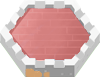
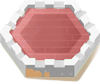
fix hud and set new tower sprites

diff --git a/src/scripts/scenes/Hud.ts b/src/scripts/scenes/Hud.ts
@@ -4,6 +4,7 @@ import { colors } from "../gameConfig"
 import langs from "../langs"
 import Game from "./Game"
 
+const DISPLAY_PERCENT = 5;
 export default class Hud extends Phaser.Scene {
   constructor() {
     super('Hud')
@@ -40,9 +41,8 @@ export default class Hud extends Phaser.Scene {
   private enemyHexCounter: Phaser.GameObjects.Text // счетчик захваченных гексов противника
   private worldStatusAni: Phaser.Tweens.Tween
   public timer: Timer
+  private maskGraphics: Phaser.GameObjects.Graphics;
 
-  private roundLeft: Phaser.GameObjects.Sprite
-  private roundRight: Phaser.GameObjects.Sprite
   private hexBar: Phaser.GameObjects.Sprite
   private hexBarText: Phaser.GameObjects.Text
   private tilesBarText: Phaser.GameObjects.Text
@@ -102,7 +102,7 @@ export default class Hud extends Phaser.Scene {
     // debug // !
     // if (!this.state.game.AI) this.createColorSwitcher()
     // this.createHexBarPlayer2()
-    this.debugText = this.add.text(-26, this.camera.height, '', { font: '10px Molot', align: 'left', color: '#54C649' }).setStroke('#000', 2).setLineSpacing(-9).setOrigin(0, 1).setVisible(false)
+    this.debugText = this.add.text(-26, this.camera.height, '', { font: '20px Molot', align: 'left', color: '#54C649' }).setStroke('#000', 2).setLineSpacing(-9).setOrigin(0, 1).setVisible(false)
     this.input.keyboard.addKey('A').on('up', (): void => { this.debugText.setVisible(!this.debugText.visible) })
   }
 
@@ -145,27 +145,25 @@ export default class Hud extends Phaser.Scene {
       stroke: '#707070',
       strokeThickness: 3,
     };
+    const currentHeight = document.body.clientHeight / 100 * DISPLAY_PERCENT;
+
     this.playerName = this.add.text(this.camera.width / 2 - 10, 4, this.gameScene[this.playerColor].name, textStyle).setOrigin(1, 0)
     this.enemyName = this.add.text(this.camera.width / 2 + 10, 4, this.gameScene[this.enemyColor].name, textStyle)
     this.lineWidth = this.camera.width / 2.5
     const barY = this.playerName.getBottomCenter().y + 29;
-    this.worldStatusBar = this.add.tileSprite(this.camera.width / 2, barY, this.lineWidth, 50, 'pixel').setOrigin(0.5).setVisible(false);
+    this.worldStatusBar = this.add.tileSprite(this.camera.width / 2, barY, this.lineWidth, currentHeight, 'pixel').setOrigin(0.5).setVisible(false);
 
     const barGeom = this.worldStatusBar.getBounds();
 
-    const scale = 42 / 50;
-    this.roundLeft = this.add.sprite(barGeom.left, barGeom.centerY, 'round-bar').setOrigin(0, 0.5).setScale(scale).setVisible(false);
-    this.roundRight = this.add.sprite(barGeom.right, barGeom.centerY, 'round-bar').setFlipX(true).setOrigin(1, 0.5).setScale(scale).setVisible(false);
-    const leftMask = new Phaser.Display.Masks.BitmapMask(this, this.roundLeft);
-    const rightMask = new Phaser.Display.Masks.BitmapMask(this, this.roundRight);
-
-    this.playerStatusRightRound = this.add.sprite(0, 0, `round-${this.playerColor}`).setOrigin(0, 0.5).setVisible(false);
-    this.enemyStatusLeftRound = this.add.sprite(0, 0, `round-${this.enemyColor}`).setFlipX(true).setOrigin(1, 0.5).setVisible(false);
+    this.maskGraphics = this.add.graphics({ x: barGeom.centerX, y: barGeom.centerY })
+      .fillStyle(0x00ff00)
+      .fillRoundedRect(- barGeom.width / 2, -barGeom.height / 2, barGeom.width, barGeom.height, barGeom.height / 2)
+      .setVisible(false);
+    const mask = new Phaser.Display.Masks.GeometryMask(this, this.maskGraphics);
     this.playerStatusBar = this.add.tileSprite(barGeom.left, barGeom.centerY, 1, barGeom.height, `pixel-${this.playerColor}`).setDepth(4).setOrigin(0, 0.5);
     this.enemyStatusBar = this.add.tileSprite(barGeom.right, barGeom.centerY, 1, barGeom.height, `pixel-${this.enemyColor}`).setDepth(4).setOrigin(1, 0.5);
-    this.playerStatusBar.setMask(leftMask).mask.invertAlpha = true;
-    this.enemyStatusBar.setMask(rightMask).mask.invertAlpha = true;
-
+    this.playerStatusBar.setMask(mask);
+    this.enemyStatusBar.setMask(mask);
 
     this.star1 = this.add.sprite(barGeom.left + this.getStarPoint(1), barGeom.centerY + 3, 'lil-star-dis').setDepth(6)
     this.star2 = this.add.sprite(barGeom.left + this.getStarPoint(2), barGeom.centerY + 3, 'lil-star-dis').setDepth(6)
@@ -355,20 +353,6 @@ export default class Hud extends Phaser.Scene {
             this.playerStatusBar.setDepth(2)
           }
         },
-        onUpdate: () => {
-          if (this.playerStatusBar.width > this.worldStatusBar.width * 0.55) {
-            const playerGeom = this.playerStatusBar.getBounds();
-            this.playerStatusRightRound.setPosition(playerGeom.right - 2, playerGeom.centerY).setVisible(true).setDepth(5);
-            this.enemyStatusLeftRound.setVisible(false);
-          } else if (this.enemyStatusBar.width > this.worldStatusBar.width * 0.55) {
-            const enemyGeom = this.enemyStatusBar.getBounds();
-            this.enemyStatusLeftRound.setPosition(enemyGeom.left + 2, enemyGeom.centerY).setVisible(true).setDepth(5);
-            this.playerStatusRightRound.setVisible(false);
-          } else {
-            if (this.enemyStatusLeftRound.visible) this.enemyStatusLeftRound.setVisible(false).setDepth(4);
-            if (this.playerStatusRightRound.visible) this.playerStatusRightRound.setVisible(false).setDepth(4);
-          }
-        },
         targets: [ this.playerStatusBar, this.enemyStatusBar ],
         width: (target: Phaser.GameObjects.TileSprite): number => {
           if (target === this.playerStatusBar) return playerLineWidth
@@ -457,6 +441,7 @@ export default class Hud extends Phaser.Scene {
   public resize(): void {
     const greenHexes: number = this.gameScene?.hexes.filter(hex => hex.own === 'green').length
     const redHexes: number = this.gameScene?.hexes.filter(hex => hex.own === 'red').length
+    const currentHeight = document.body.clientHeight / 100 * 5;
 
     this.bg?.setPosition(0, 0).setSize(this.camera.width, this.bg.height)
     this.menuBtn?.setPosition(this.camera.width - 35, 35)
@@ -465,15 +450,19 @@ export default class Hud extends Phaser.Scene {
     this.playerName?.setPosition(this.camera.width / 2 - 10, 4)
     this.enemyName?.setPosition(this.camera.width / 2 + 10, 4)
 
-    this.worldStatusBar?.setPosition(this.camera.width / 2, this.worldStatusBar.y).setSize(this.camera.width / 2.5, 50)
+    this.worldStatusBar?.setPosition(this.camera.width / 2, this.worldStatusBar.y).setSize(this.camera.width / 2.5, currentHeight)
     const barGeom = this.worldStatusBar.getBounds();
-    this.roundLeft?.setPosition(barGeom.left, barGeom.centerY);
-    this.roundRight?.setPosition(barGeom.right, barGeom.centerY);
+    const scale = currentHeight / 50 * 0.85;
+    this.maskGraphics
+      .setPosition(barGeom.centerX, barGeom.centerY)
+      .clear()
+      .fillStyle(0x00ff00)
+      .fillRoundedRect(- barGeom.width / 2, - barGeom.height / 2, barGeom.width, barGeom.height, barGeom.height / 2)
+      .setVisible(false);
+
     this.playerStatusBar?.setPosition(barGeom.left, barGeom.centerY).setSize(this.getLineWidth(greenHexes), barGeom.height);
     this.enemyStatusBar?.setPosition(barGeom.right, barGeom.centerY).setSize(this.getLineWidth(redHexes), barGeom.height);
     this.timer?.setPosition(barGeom.centerX, barGeom.bottom + 2);
-    this.playerStatusRightRound.setPosition(this.playerStatusBar.getBounds().right - 1, this.playerStatusBar.getBounds().centerY);
-    this.enemyStatusLeftRound.setPosition(this.enemyStatusBar.getBounds().left + 1, this.enemyStatusBar.getBounds().centerY);
 
     this.star1?.setPosition(barGeom.left + this.getStarPoint(1), barGeom.centerY + 3);
     this.star2?.setPosition(barGeom.left + this.getStarPoint(2), barGeom.centerY + 3);
@@ -497,6 +486,7 @@ export default class Hud extends Phaser.Scene {
 
     this.hexBarP2?.setPosition(this.camera.width - 10, this.camera.height - 10)
     this.hexBarTextP2?.setPosition(this.hexBarP2.getCenter().x + 1, this.hexBarP2.getCenter().y - 2)
+    this.debugText?.setPosition(-26, this.camera.height);
   }
 
 
@@ -512,8 +502,6 @@ export default class Hud extends Phaser.Scene {
 
   private debug(): void {
     let text = `
-      desktop:  ${this.game.device.os.desktop}\n
-      android:  ${this.game.device.os.android}\n
       width:  ${this.gameScene?.camera.width}\n
       height:  ${this.gameScene?.camera.height}\n
       worldView_width:  ${this.gameScene?.camera.worldView.width}\n

diff --git a/src/scripts/components/Hex.ts b/src/scripts/components/Hex.ts
@@ -111,7 +111,7 @@ export default class Hex extends Phaser.GameObjects.Sprite {
     this.classText = this.scene.add.text(this.getCenter().x, this.getCenter().y + 10, '', { font: '17px Molot', color: 'black' }).setOrigin(0.5, 0).setDepth(this.depth + 10).setStroke('#ffffff', 2)
     this.fogSprite = this.scene.add.sprite(this.getCenter().x, this.getCenter().y, 'fog').setAlpha(1).setScale(1.01).setDepth(this.depth + 20)
     this.nearbyMark = this.scene.add.sprite(this.getCenter().x, this.getCenter().y - 1, 'hex-border-2').setDepth(this.depth + 10).setScale(0.95).setVisible(false).setAlpha(0.4)
-    this.defenceLvl = this.scene.add.text(this.getCenter().x, this.getCenter().y - 20, '', { font: '17px Molot', color: 'black' }).setOrigin(0.5).setDepth(this.worldSprite.depth * 1.5)
+    this.defenceLvl = this.scene.add.text(this.getCenter().x, this.getCenter().y - 10, '', { font: '40px Molot', color: '#EFEAE8' }).setOrigin(0.5).setDepth(this.worldSprite.depth * 1.5)
     // if (this.col === 0) this.scene.add.sprite(this.x + w / 4 + 1, this.y + h / 2 - 7, 'fog').setOrigin(1, 0).setScale(this.fogSprite.scale).setDepth(this.fogSprite.depth + 1)
     // if (this.col === this.scene.cols - 1) this.scene.add.sprite(this.x + w * 0.75 - 1, this.y + h / 2 - 7, 'fog').setOrigin(0).setScale(this.fogSprite.scale).setDepth(this.fogSprite.depth + 1)
     // if (this.row === this.scene.rows - 1) this.scene.add.sprite(this.x, this.y + h - 7, 'fog').setOrigin(0).setScale(this.fogSprite.scale).setDepth(10000)
